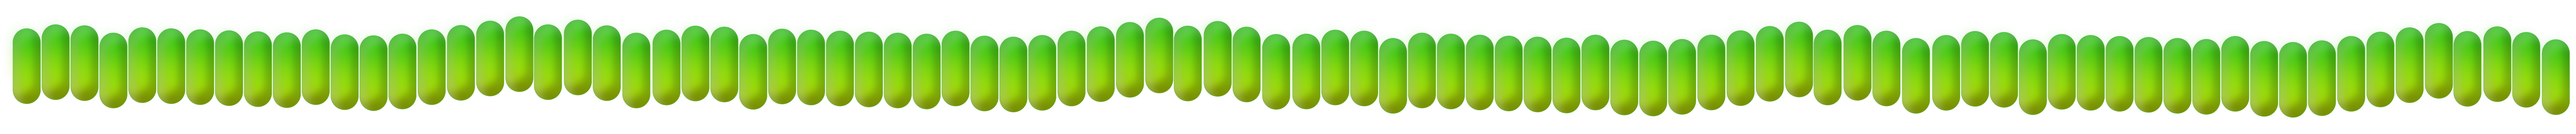
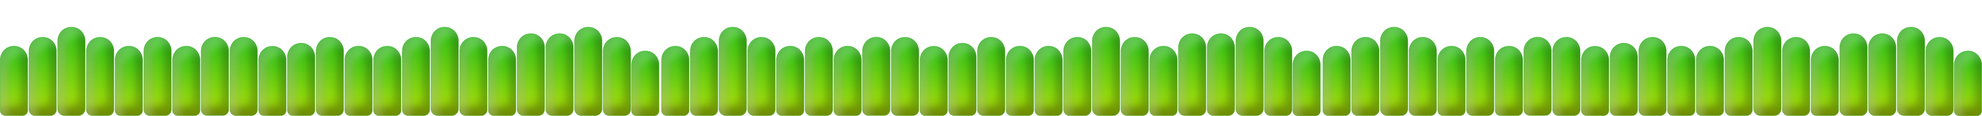
grass fix

diff --git a/style.css b/style.css
@@ -38,9 +38,9 @@ body {
     align-items: center;
     background-image: url("images/background.png");
     background-repeat: no-repeat;
-  background-size: cover;
-  background-position: center;
-  background-attachment: fixed;
+    background-size: cover;
+    background-position: center;
+    background-attachment: fixed;
 }
 
 .start-content {
@@ -77,7 +77,7 @@ body {
 }
 
 .game-background {
-   position: relative;
+  position: relative;
   overflow: hidden;
   width: 100vw;
   height: 100vh;
@@ -136,37 +136,39 @@ body {
 }
 
 .grass-container {
-  position: absolute;
-  bottom: -20px; /* push slightly below screen */
+  position: relative;
+  bottom: 0; /* push slightly below screen */
   left: 0;
-  width: 100%;
+  width: 110%;
   overflow: visible;
-  pointer-events: none;
   z-index: 10; /* above background, below balloons */
 }
 
 .grass-image {
+  position: fixed;
   display: block;
-  width: 110%;      /* slightly wider to cover screen edges */
+  width: 250%;      /* slightly wider to cover screen edges */
   height: auto;     /* keep proportions */
-  transform: translateY(10px); /* fine tune vertical placement */
-  animation: grassSway 4s ease-in-out infinite;
-  transform-origin: bottom center;
+  bottom: -50px;
+  left: -75%;       /* center the wide image */
+  pointer-events: none; 
+  transform-origin: bottom center;    /* keep it rooted */ 
+  
 }
 
 
 .background-grass {
-  animation: grassBob 4.5s ease-in-out infinite;
-  transform-origin: bottom center; 
+  animation: grassBob 4.5s ease-in-out infinite; 
   animation-delay: 1s;
-  z-index: 2;   
+  z-index: 2;
+  
 }
 
 .foreground-grass {
     animation: grassBob 3.5s ease-in-out infinite;
-    transform-origin: bottom center -20px;
-    z-index: 10;  
-    bottom: -30px;
+    z-index: 10;
+    
+    
 }
 
 
